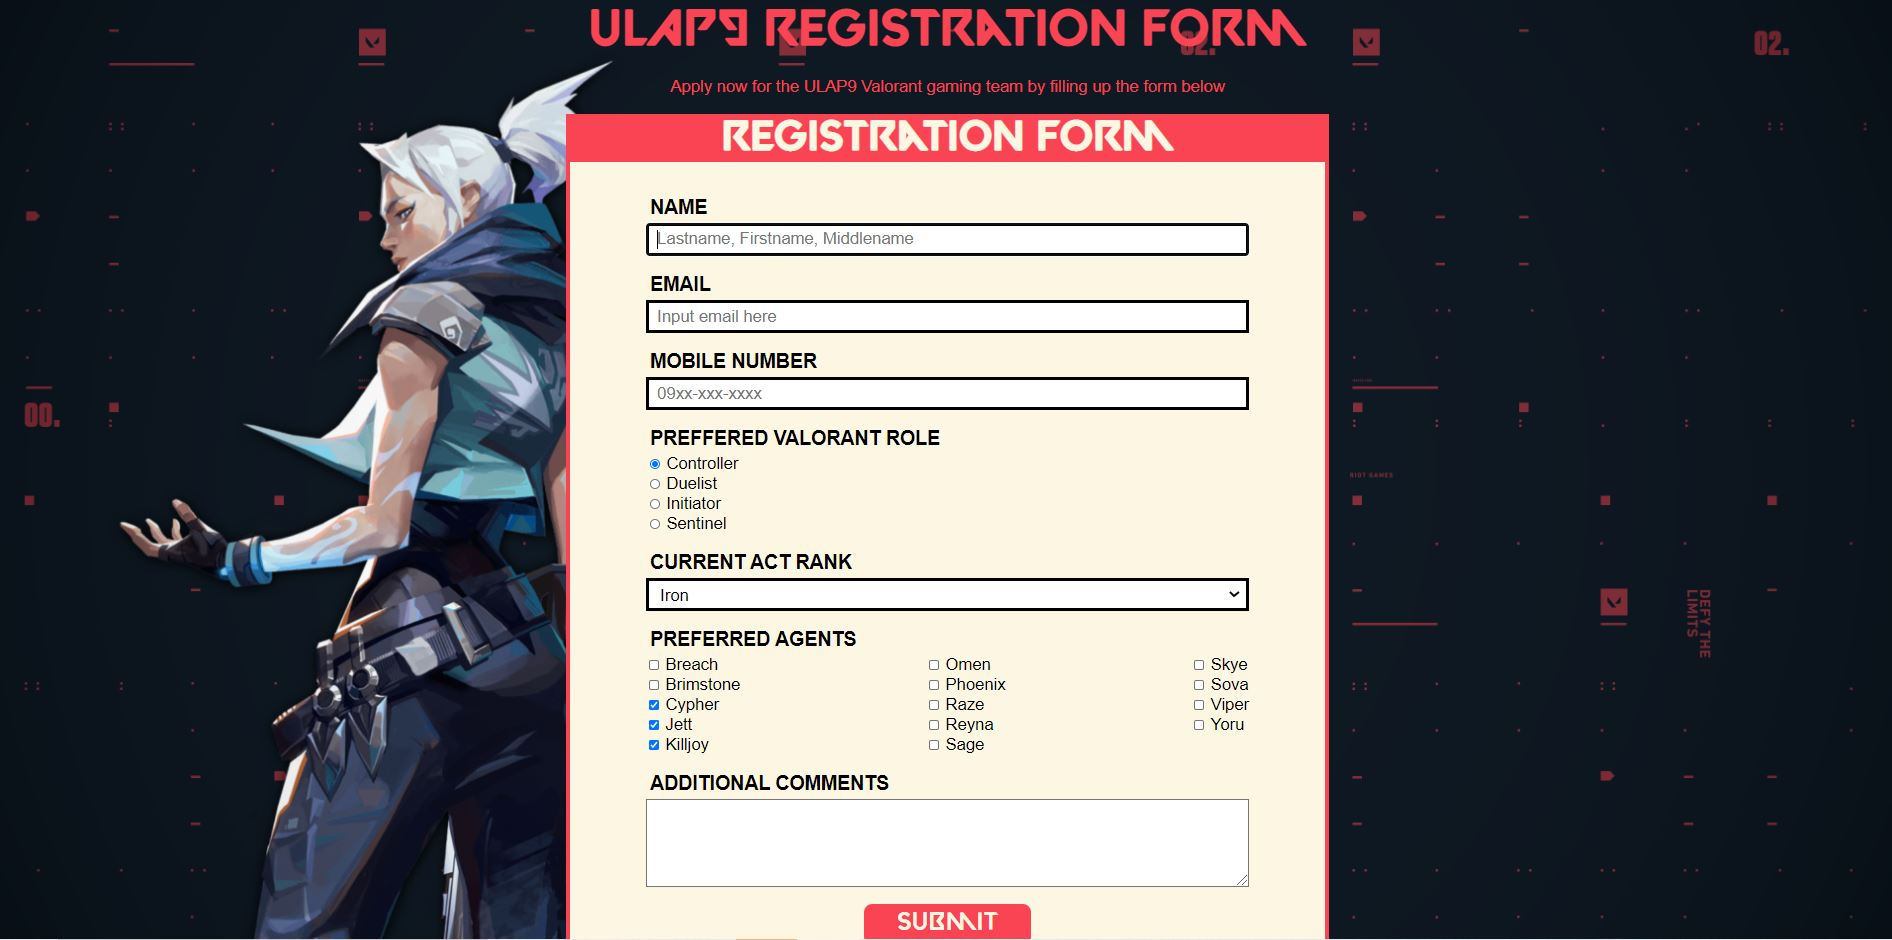
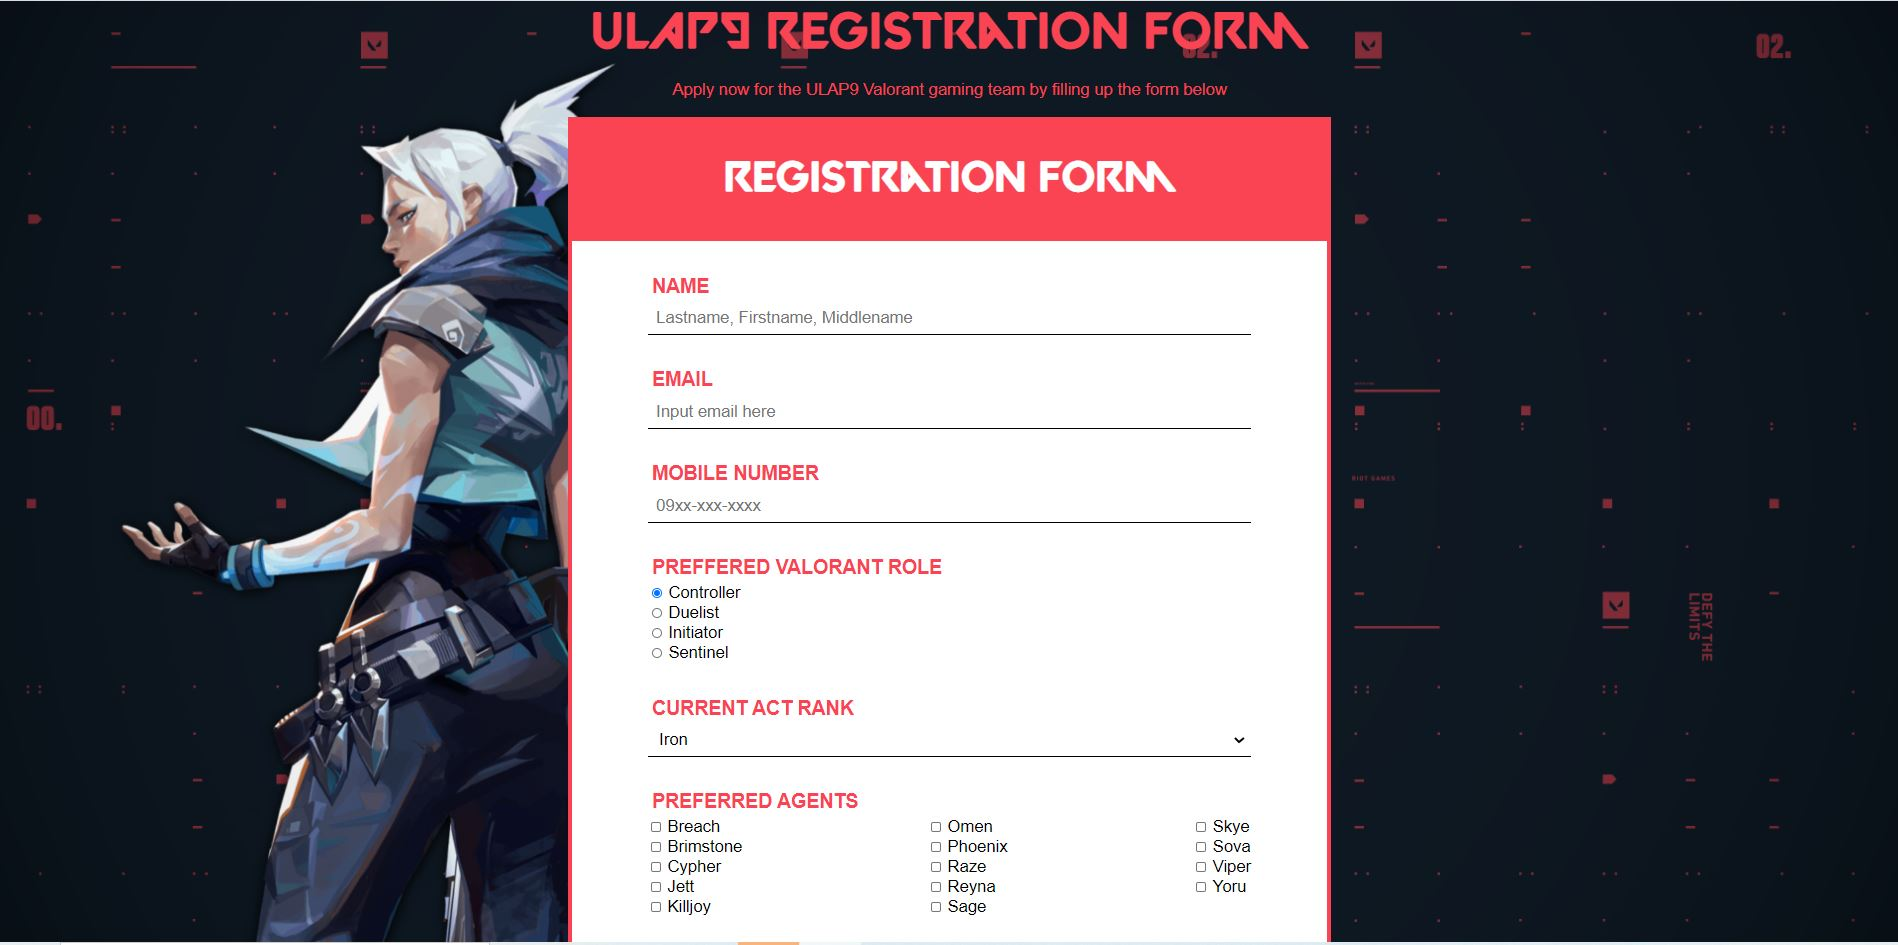
Updated survey form thumbnail

diff --git a/index.html b/index.html
@@ -115,13 +115,13 @@
 
                 <!-- Right-->
                 <div class="row justify-content-center no-gutters">
-                    <div class="col-lg-6"><img class="img-fluid" src="assets/img/HTMLEmailActivity.jpg" alt="" /></div>
+                    <div class="col-lg-6"><img class="img-fluid" src="assets/img/Survey_Form Light Version Full.jpg" alt="" /></div>
                     <div class="col-lg-6 order-lg-first">
                         <div class="bg-black text-center h-100 project">
                             <div class="d-flex h-100">
                                 <div class="project-text w-100 my-auto text-center text-lg-right">
                                     <h4 class="text-white"><a href="Activities/Survey_Form/survey_form.html">Survey Form</a></h4>
-                                    <p class="mb-0 text-white-50">In this activity, we were tasked with creating our own survey form</p>
+                                    <p class="mb-0 text-white-50">In this activity, we were tasked with creating our own survey form.</p>
                                     <hr class="d-none d-lg-block mb-0 mr-0" />
                                 </div>
                             </div>
